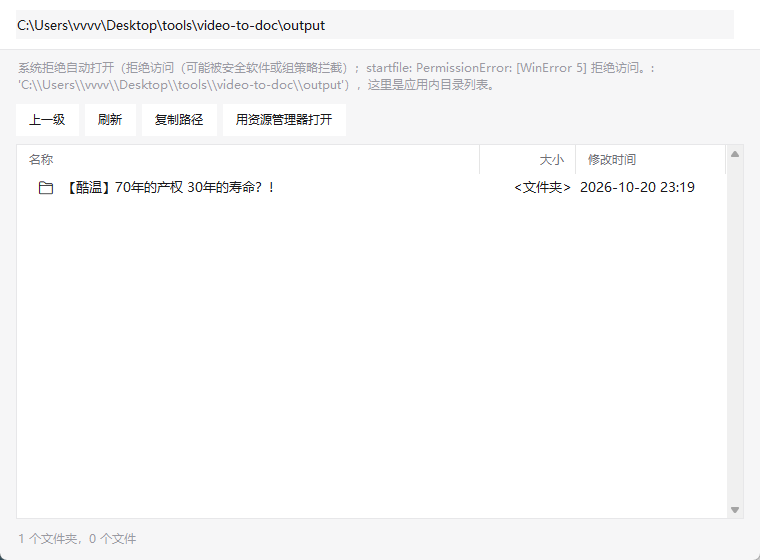
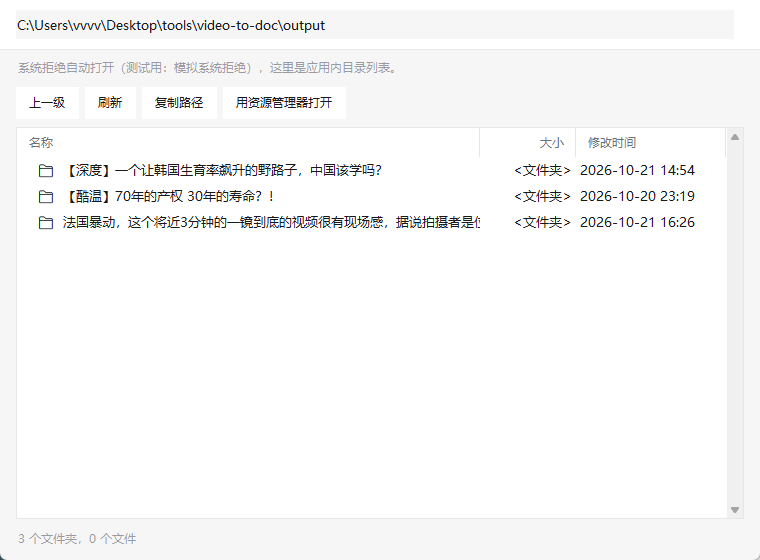
fix: 补回保真校验的时间戳剥离行为，并抽出 format_selection 模块
第二轮质量检查发现的问题与改进：

## 修复重构引入的行为丢失（真实回归）

`fidelity.verify()` 在**校验通过**时直接返回模型输出，丢掉了原
`summarizer._verify_fidelity` 的行为：剥离模型偶尔残留的行首 [MM:SS] 时间戳。
后果是时间戳会原样混进转写正文 —— 正是本项目最初要修的"错漏"之一。

已补回，并新增回归测试：通过校验时仍剥离残留时间戳，
同时**不能**顺手把多说话人模式的「说话人A：」标签吃掉。

## 补回拆分时漏掉的样式覆盖

`file_browser.FolderBrowser` 拆分时漏了 `style.layout("Folder.Treeview", ...)`
（去掉 Treeview 自带的凹陷边框）。已补回，并重新生成文档截图。

## downloader.py 拆到 913 行

格式选择是纯计算（不发起网络/进程），抽成 `format_selection.py`：
- `quality_to_format()`：画质预设 → format 表达式（静态兜底）
- `candidates_from_meta()`：从真实格式列表按「画质优先、同画质按编码兼容性」排候选
- `format_candidates()`：统一入口（支持用户自定义 format）
- `MAX_FORMAT_CANDIDATES` 常量随之迁移

Downloader 保留同名薄方法委托，调用方无需改动。用真实视频验证候选链与
抽取前完全一致：`30080+30280 → 30077+30280 → 100026+30280 → 30064+30280
→ 30066+30280 → bestvideo+bestaudio/best`

新增 7 条单测覆盖：1080p 三编码排序、720p 上限过滤、纯音频、
自定义 format 分段、无元信息兜底、候选数量上限。

## 其他

- README：项目结构补 `format_selection.py`，测试数量更新为 232
- 全部文件现已无超过 1000 行的（最大 gui.py 979）

## 验证

  232 个测试通过（+9）
  全部 py 文件编译通过，0 处未使用 import
  17 个模块均可独立导入（无循环 import）
  main.py --check 环境自检全绿
  GUI 冒烟：完整性级别 Medium、打开目录成功、裸域名识别正常
  .vbs 启动正常

Changed region(s): [[0.0303, 0.0911, 0.7263, 0.425], [0.6658, 0.2429, 0.9382, 0.425], [0.7566, 0.0911, 0.8474, 0.1518]]

diff --git a/downloader.py b/downloader.py
@@ -12,6 +12,7 @@ import time
 from pathlib import Path
 from typing import Any, Dict, List, Optional, Tuple
 
+from format_selection import candidates_from_meta, format_candidates, quality_to_format
 from utils import (sanitize_filename, set_state, is_done, python_module_cmd,
                    VIDEO_EXTS, AUDIO_EXTS, MEDIA_EXTS, CancelToken, CancelledError,
                    fmt_size)
@@ -26,8 +27,6 @@ _WATCHDOG_POLL = 0.25
 # 叫停工作线程后最多等多久（秒）。若线程卡死在 socket 读上、根本没有进度
 # 回调可触发，就不再无谓死等，直接弃用本次尝试、换下一个候选。
 _ABORT_JOIN_TIMEOUT = 3.0
-# 最多生成多少个 format 候选（避免在同一个视频上无限换格式重试）
-MAX_FORMAT_CANDIDATES = 5
 # 有多个候选时，每个候选只给少量重试：卡在坏 CDN 上重试 30 次要 9 分钟（实测），
 # 而换下一个候选通常 10 秒就能下完，所以优先"快速换路"
 PER_CANDIDATE_RETRIES = 2
@@ -159,115 +158,22 @@ class Downloader:
 
     @staticmethod
     def _quality_to_format(quality: str) -> str:
-        """将清晰度预设映射为 yt-dlp format 字符串
-
-        历史背景：早期 B站 把 AV1 流分发到不稳定的第三方 CDN（mountaintoys.cn），
-        所以这里曾强制选 AVC。但实测（2026-10）B站 把 **1080p AVC 流**分到了
-        mountaintoys，而 AV1/HEVC 反而在正常 CDN 上 —— 强制 AVC 恰好选中了
-        坏节点，下载 37 秒后 `ConnectionResetError 10054` 且重试无效。
-
-        现在改为按「可用性优先」的降级链：
-          1. 优先 AVC（兼容性最好，剪辑/播放最稳）
-          2. 失败则退回任意编码（AV1/HEVC 通常在其他 CDN 上，能下）
-        yt-dlp 会在主格式不可用时按 `/` 逐级降级，正好符合这个需求。
-        """
-        mapping = {
-            # best：优先 AVC，失败退回任意可用流
-            "best":   "bestvideo[vcodec^=avc]+bestaudio/bestvideo+bestaudio/best",
-            "2160p":  "bestvideo[height<=2160][vcodec^=avc]+bestaudio/bestvideo[height<=2160]+bestaudio/best",
-            "1080p":  "bestvideo[height<=1080][vcodec^=avc]+bestaudio/bestvideo[height<=1080]+bestaudio/best",
-            "720p":   "bestvideo[height<=720][vcodec^=avc]+bestaudio/bestvideo[height<=720]+bestaudio/best",
-            "480p":   "bestvideo[height<=480][vcodec^=avc]+bestaudio/bestvideo[height<=480]+bestaudio/best",
-            "360p":   "bestvideo[height<=360][vcodec^=avc]+bestaudio/bestvideo[height<=360]+bestaudio/best",
-            "audio":  "bestaudio/best",
-        }
-        return mapping.get(quality, mapping["1080p"])
+        """把清晰度预设翻译成 yt-dlp format 表达式（实现见 format_selection）"""
+        return quality_to_format(quality)
 
     def _format_candidates(self, quality: str) -> List[str]:
-        """返回 format 候选列表，每个元素是完整的 format 表达式。
-
-        yt-dlp 的 `a/b/c` 只在"格式不可用"时降级，**不会**在"下载出错"时降级。
-        所以下载失败时必须由我们自己换下一个候选重试 —— 这是本次
-        `mountaintoys.cn` 事故的直接原因：AVC 1080p 在坏 CDN 上，
-        但 yt-dlp 认为它"可用"，于是一直在这个节点上重试到失败。
-        """
-        fmt_cfg: str = (self.dl_config.get("format") or "").strip()
-        if fmt_cfg:
-            # 用户自定义 format：按其 `/` 分段也生成候选
-            parts = [p.strip() for p in fmt_cfg.split("/") if p.strip()]
-            if parts:
-                return parts
-            return [fmt_cfg]
-
-        # 依赖元信息里的实际可用流，按"编码兼容性 + 画质"排序挑选
-        return self._candidates_from_meta(quality)
+        """返回 format 候选列表（实现见 format_selection.format_candidates）"""
+        return format_candidates(
+            quality,
+            format_cfg=(self.dl_config.get("format") or ""),
+            meta=self._current_meta,
+        )
 
     def _candidates_from_meta(self, quality: str) -> List[str]:
-        """从当前视频的真实格式列表里，按可用性挑出若干候选 format_id 组合。
+        """从当前视频的真实格式列表挑候选（实现见 format_selection）"""
+        return candidates_from_meta(quality, self._current_meta or {})
 
-        这样能避开"某个 CDN 节点连不上"的坑：同一个视频的 1080p 往往同时有
-        AVC / HEVC / AV1 三个流，分别在不同 CDN 上，换一个就能下。
-        """
-        info = self._current_meta or {}
-        formats = info.get("formats") or []
-        if not formats:
-            # 没有元信息（如已在下载中途调用）：退回静态映射
-            return [p.strip() for p in self._quality_to_format(quality).split("/") if p.strip()]
 
-        height_cap = None
-        if quality not in ("best", "audio"):
-            digits = "".join(ch for ch in quality if ch.isdigit())
-            height_cap = int(digits) if digits else None
-
-        def _size(f: Dict[str, Any]) -> float:
-            return float(f.get("filesize") or f.get("filesize_approx") or 0)
-
-        videos = [f for f in formats if f.get("vcodec") not in (None, "none") and f.get("url")]
-        audios = [f for f in formats if f.get("acodec") not in (None, "none")
-                  and f.get("vcodec") in (None, "none") and f.get("url")]
-
-        if quality == "audio":
-            audios.sort(key=_size, reverse=True)
-            return [a["format_id"] for a in audios] or ["bestaudio/best"]
-
-        if height_cap:
-            videos = [f for f in videos if (f.get("height") or 0) <= height_cap]
-
-        # 编码优先级：AVC 兼容性最好，其次 HEVC，最后 AV1
-        def _codec_rank(f: Dict[str, Any]) -> int:
-            v = (f.get("vcodec") or "").lower()
-            if v.startswith("avc"):
-                return 0
-            if v.startswith(("hev", "hvc")):
-                return 1
-            if v.startswith("av01"):
-                return 2
-            return 3
-
-        # 排序：先按画质从高到低，同画质内按编码兼容性（AVC > HEVC > AV1）。
-        # 这样 1080p AVC 失败时会先试 1080p HEVC/AV1（换个 CDN 但保持画质），
-        # 而不是直接掉到 720p。
-        videos.sort(key=lambda f: (-(f.get("height") or 0), _codec_rank(f), -_size(f)))
-
-        best_audio = None
-        if audios:
-            audios.sort(key=_size, reverse=True)
-            best_audio = audios[0]["format_id"]
-
-        candidates: List[str] = []
-        seen = set()
-        for v in videos:
-            fid = v.get("format_id")
-            if fid in seen:
-                continue
-            seen.add(fid)
-            audio = best_audio or "bestaudio"
-            candidates.append(f"{fid}+{audio}")
-            if len(candidates) >= MAX_FORMAT_CANDIDATES:
-                break
-
-        candidates.append("bestvideo+bestaudio/best")
-        return candidates
 
     def _progress_hook(self, d: Dict[str, Any]) -> None:
         """yt-dlp 下载进度回调（纯记录，**不**判断中止）

diff --git a/format_selection.py b/format_selection.py
@@ -1,0 +1,121 @@
+"""下载格式选择：把「画质预设」翻译成 yt-dlp 的 format 候选链。
+
+## 为什么要候选链
+
+yt-dlp 的 `a/b/c` 只在"格式**不可用**"时降级，**不会**在"下载**出错**"时降级。
+而 B站 会把同一个视频的不同编码分发到不同 CDN，其中部分节点是坏的：
+实测 2026-10，`mountaintoys.cn` 上的 1080p AVC 流一开始下载就
+`ConnectionResetError 10054`，而同一视频的 HEVC/AV1 流在正常 CDN 上。
+
+早期代码为"稳定"强制选 AVC（`bestvideo[vcodec^=avc]`），结果恰好选中坏节点，
+且 yt-dlp 认为该格式"可用"，于是一直在坏节点上重试到失败。
+
+现在改为：从元信息里枚举真实可用的流，按「画质优先、同画质按编码兼容性」
+排出一串候选，下载失败就换下一个 —— 换编码等于换 CDN，通常 10 秒就能下完。
+
+本模块只做纯计算（不发起网络/进程），便于单测。
+"""
+from typing import Any, Dict, List
+
+# 最多生成多少个候选（避免在同一个视频上无限换格式重试）
+MAX_FORMAT_CANDIDATES = 5
+
+# 各画质预设的静态降级链（拿不到元信息时兜底）。
+# 说明：优先 AVC（兼容性最好），失败退回任意编码。
+_QUALITY_MAP: Dict[str, str] = {
+    "best":   "bestvideo[vcodec^=avc]+bestaudio/bestvideo+bestaudio/best",
+    "2160p":  "bestvideo[height<=2160][vcodec^=avc]+bestaudio/bestvideo[height<=2160]+bestaudio/best",
+    "1080p":  "bestvideo[height<=1080][vcodec^=avc]+bestaudio/bestvideo[height<=1080]+bestaudio/best",
+    "720p":   "bestvideo[height<=720][vcodec^=avc]+bestaudio/bestvideo[height<=720]+bestaudio/best",
+    "480p":   "bestvideo[height<=480][vcodec^=avc]+bestaudio/bestvideo[height<=480]+bestaudio/best",
+    "360p":   "bestvideo[height<=360][vcodec^=avc]+bestaudio/bestvideo[height<=360]+bestaudio/best",
+    "audio":  "bestaudio/best",
+}
+_DEFAULT_QUALITY = "1080p"
+
+# 编码兼容性排序：AVC 最通用，其次 HEVC，最后 AV1
+_CODEC_RANK = (("avc", 0), (("hev", "hvc"), 1), ("av01", 2))
+
+
+def quality_to_format(quality: str) -> str:
+    """把清晰度预设翻译成 yt-dlp 的 format 表达式（静态兜底用）"""
+    return _QUALITY_MAP.get(quality, _QUALITY_MAP[_DEFAULT_QUALITY])
+
+
+def _size(fmt: Dict[str, Any]) -> float:
+    return float(fmt.get("filesize") or fmt.get("filesize_approx") or 0)
+
+
+def _codec_rank(fmt: Dict[str, Any]) -> int:
+    vcodec = (fmt.get("vcodec") or "").lower()
+    for prefix, rank in _CODEC_RANK:
+        if isinstance(prefix, tuple):
+            if vcodec.startswith(prefix):
+                return rank
+        elif vcodec.startswith(prefix):
+            return rank
+    return 3
+
+
+def format_candidates(quality: str, *, format_cfg: str = "",
+                      meta: Dict[str, Any] | None = None) -> List[str]:
+    """返回 format 候选列表，每个元素是可直接交给 yt-dlp 的表达式。
+
+    :param quality:    画质预设（best / 1080p / 720p / audio ...）
+    :param format_cfg: 用户自定义的 format 字符串（非空时优先，按其 `/` 分段）
+    :param meta:       视频元信息；缺失时退回静态降级链
+    """
+    fmt_cfg = (format_cfg or "").strip()
+    if fmt_cfg:
+        parts = [p.strip() for p in fmt_cfg.split("/") if p.strip()]
+        return parts or [fmt_cfg]
+    return candidates_from_meta(quality, meta or {})
+
+
+def candidates_from_meta(quality: str, meta: Dict[str, Any]) -> List[str]:
+    """从真实格式列表里挑候选：画质从高到低，同画质按编码兼容性排序。"""
+    formats = meta.get("formats") or []
+    if not formats:
+        # 没有元信息（如已在下载中途调用）：退回静态映射
+        return [p.strip() for p in quality_to_format(quality).split("/") if p.strip()]
+
+    height_cap = None
+    if quality not in ("best", "audio"):
+        digits = "".join(ch for ch in quality if ch.isdigit())
+        height_cap = int(digits) if digits else None
+
+    videos = [f for f in formats if f.get("vcodec") not in (None, "none") and f.get("url")]
+    audios = [f for f in formats if f.get("acodec") not in (None, "none")
+              and f.get("vcodec") in (None, "none") and f.get("url")]
+
+    if quality == "audio":
+        audios.sort(key=_size, reverse=True)
+        return [a["format_id"] for a in audios] or ["bestaudio/best"]
+
+    if height_cap:
+        videos = [f for f in videos if (f.get("height") or 0) <= height_cap]
+
+    # 先按画质从高到低，同画质内按编码兼容性：
+    # 这样 1080p AVC 失败时会先试 1080p HEVC/AV1（换个 CDN 但保持画质），
+    # 而不是直接掉到 720p。
+    videos.sort(key=lambda f: (-(f.get("height") or 0), _codec_rank(f), -_size(f)))
+
+    best_audio = None
+    if audios:
+        audios.sort(key=_size, reverse=True)
+        best_audio = audios[0]["format_id"]
+
+    candidates: List[str] = []
+    seen = set()
+    for v in videos:
+        fid = v.get("format_id")
+        if vid := fid:
+            if vid in seen:
+                continue
+            seen.add(vid)
+        candidates.append(f"{fid}+{best_audio or 'bestaudio'}")
+        if len(candidates) >= MAX_FORMAT_CANDIDATES:
+            break
+
+    candidates.append("bestvideo+bestaudio/best")
+    return candidates

diff --git a/tests/test_downloader.py b/tests/test_downloader.py
@@ -169,3 +169,68 @@ class TestUrlDetection:
             pass
         assert called["import"] == 0, "裸域名不应走本地文件导入"
         assert called["meta"] == "https://bilibili.com/video/BV1NvJ66gEMn/?trackid=abc"
+
+class TestFormatSelection:
+    """format_selection 是纯函数，单测覆盖候选链的排序与兜底逻辑"""
+
+    META = {"formats": [
+        # 1080p：AVC / HEVC / AV1 三条流（模拟 B站）
+        {"format_id": "30080", "vcodec": "avc1.640033", "acodec": "none",
+         "height": 1080, "url": "u8", "filesize": 160 * 1024 * 1024},
+        {"format_id": "30077", "vcodec": "hvc1.1.6.L15", "acodec": "none",
+         "height": 1080, "url": "u7", "filesize": 74 * 1024 * 1024},
+        {"format_id": "100026", "vcodec": "av01.0.08M.0", "acodec": "none",
+         "height": 1080, "url": "u26", "filesize": 64 * 1024 * 1024},
+        # 720p
+        {"format_id": "30064", "vcodec": "avc1.640033", "acodec": "none",
+         "height": 720, "url": "u64", "filesize": 72 * 1024 * 1024},
+        # 音频
+        {"format_id": "30280", "vcodec": "none", "acodec": "mp4a.40.2",
+         "url": "ua", "filesize": 7 * 1024 * 1024},
+    ]}
+
+    def test_best_order_keeps_quality_then_codec(self):
+        from format_selection import candidates_from_meta
+        cand = candidates_from_meta("best", self.META)
+        # 1080p 三种编码应排在 720p 之前
+        assert cand[0] == "30080+30280", "首选应为 1080p AVC"
+        assert cand[1] == "30077+30280", "其次 1080p HEVC（换 CDN 但保持画质）"
+        assert cand[2] == "100026+30280", "再次 1080p AV1"
+        assert cand[3].startswith("30064"), "画质降级应排在这些之后"
+
+    def test_fallback_chain_tail(self):
+        from format_selection import candidates_from_meta
+        cand = candidates_from_meta("best", self.META)
+        assert cand[-1] == "bestvideo+bestaudio/best", "末尾应有兜底表达式"
+
+    def test_height_cap(self):
+        from format_selection import candidates_from_meta
+        cand = candidates_from_meta("720p", self.META)
+        assert all(not c.startswith(("30080", "30077", "100026")) for c in cand), \
+            "720p 预设不应包含 1080p 流"
+
+    def test_audio_only(self):
+        from format_selection import candidates_from_meta
+        cand = candidates_from_meta("audio", self.META)
+        assert cand == ["30280"]
+
+    def test_user_format_override_splits(self):
+        from format_selection import format_candidates
+        cand = format_candidates("best", format_cfg="30080+30280/30077+30280")
+        assert cand == ["30080+30280", "30077+30280"]
+
+    def test_no_meta_falls_back_to_static(self):
+        from format_selection import format_candidates, quality_to_format
+        cand = format_candidates("1080p", meta={})
+        assert cand == [p.strip() for p in quality_to_format("1080p").split("/") if p.strip()]
+
+    def test_candidate_cap(self):
+        from format_selection import MAX_FORMAT_CANDIDATES, candidates_from_meta
+        many = {"formats": [
+            {"format_id": f"v{i}", "vcodec": "avc1", "acodec": "none",
+             "height": 1080 - i, "url": "u", "filesize": 1}
+            for i in range(20)
+        ] + [{"format_id": "a", "vcodec": "none", "acodec": "mp4a", "url": "u", "filesize": 1}]}
+        cand = candidates_from_meta("best", many)
+        # 上限 + 末尾兜底
+        assert len(cand) <= MAX_FORMAT_CANDIDATES + 1

diff --git a/tests/test_fidelity.py b/tests/test_fidelity.py
@@ -111,3 +111,23 @@ class TestThresholds:
         pipeline = __import__("pipeline")
         assert pipeline.POLISH is POLISH
         assert pipeline.verify is fidelity.verify
+
+class TestSuccessPathCleanup:
+    """回归：模型忘记去掉 [MM:SS] 时，通过校验的输出仍要剥离时间戳。
+
+    重构（9522be2）一度丢掉了这个行为 —— 时间戳会原样混进转写正文，
+    而这正是本项目最初要修的"错漏"之一。
+    """
+
+    def test_residual_timestamp_stripped(self):
+        src = "这是第一句话" * 20
+        out = "[00:05] " + src
+        result = verify(src, out)
+        assert not result.startswith("[00:05]"), "通过校验后仍应剥离残留时间戳"
+        assert result == src
+
+    def test_speaker_label_preserved(self):
+        """剥离时间戳不能顺手把合法的说话人标签也吃掉"""
+        src = "今天天气不错" * 20
+        out = "说话人A：" + src
+        assert verify(src, out).startswith("说话人A：")

diff --git a/file_browser.py b/file_browser.py
@@ -108,6 +108,10 @@ class FolderBrowser(tk.Toplevel):
                   background=[("selected", C["accent_soft"])],
                   foreground=[("selected", C["accent"])])
         style.map("Folder.Treeview.Heading", background=[("active", C["hover"])])
+        # 去掉 Treeview 自带的凹陷边框，才能和扁平卡片风格一致
+        style.layout("Folder.Treeview", [
+            ("Folder.Treeview.treearea", {"sticky": "nswe"})
+        ])
 
         self._tree = ttk.Treeview(wrap, columns=("size", "mtime"),
                                   show="tree headings", selectmode="browse",

diff --git a/fidelity.py b/fidelity.py
@@ -179,5 +179,9 @@ def verify(src: str, out: str, label: str = "抛光",
         )
         return fallback_text(src)
 
-    # 通过：原样返回模型输出（不做任何"修正"，避免吃掉合法标注）
+    # 通过：原样返回模型输出（保留它合法新增的「说话人A：」标签），
+    # 但兜掉模型偶尔忘记去掉的行首 [MM:SS] 时间戳 —— 否则时间戳会混进正文。
+    if TIME_PREFIX_RE.search(raw_out):
+        logger.debug("%s：模型输出残留时间戳，已剥离", label)
+        return strip_time_prefix(raw_out)
     return raw_out

diff --git a/README.md b/README.md
@@ -350,7 +350,8 @@ ui_theme.py          配色 / 字体等设计令牌
 ui_widgets.py        自定义控件（胶囊开关 Chip、扁平按钮 FlatButton）
 file_browser.py      应用内目录浏览器（系统 shell 打不开时的兜底）
 pipeline.py          流水线编排（下载 → 转写 → 翻译 → 抛光 → 总结 → 字幕）
-downloader.py        下载（yt-dlp 封装、格式候选回退、音轨校验、超时看门狗）
+downloader.py        下载（yt-dlp 封装、下载重试、音轨校验、超时看门狗）
+format_selection.py  画质预设 → yt-dlp format 候选链（纯计算，可单测）
 transcriber.py       faster-whisper 转写、音频提取、低置信度报告
 summarizer.py        LLM 总结与标点分段
 styles.py            总结风格表（唯一数据源）
@@ -361,7 +362,7 @@ subtitle_extractor.py 平台字幕提取
 format_converter.py  md / txt / html 输出
 utils.py             共享工具（取消令牌、配置校验、ffmpeg 查找等）
 setup.py             一键初始化（虚拟环境 / 依赖 / 模型）
-tests/               223 个单元与集成测试
+tests/               232 个单元与集成测试
 ```
 
 ## 技术栈
